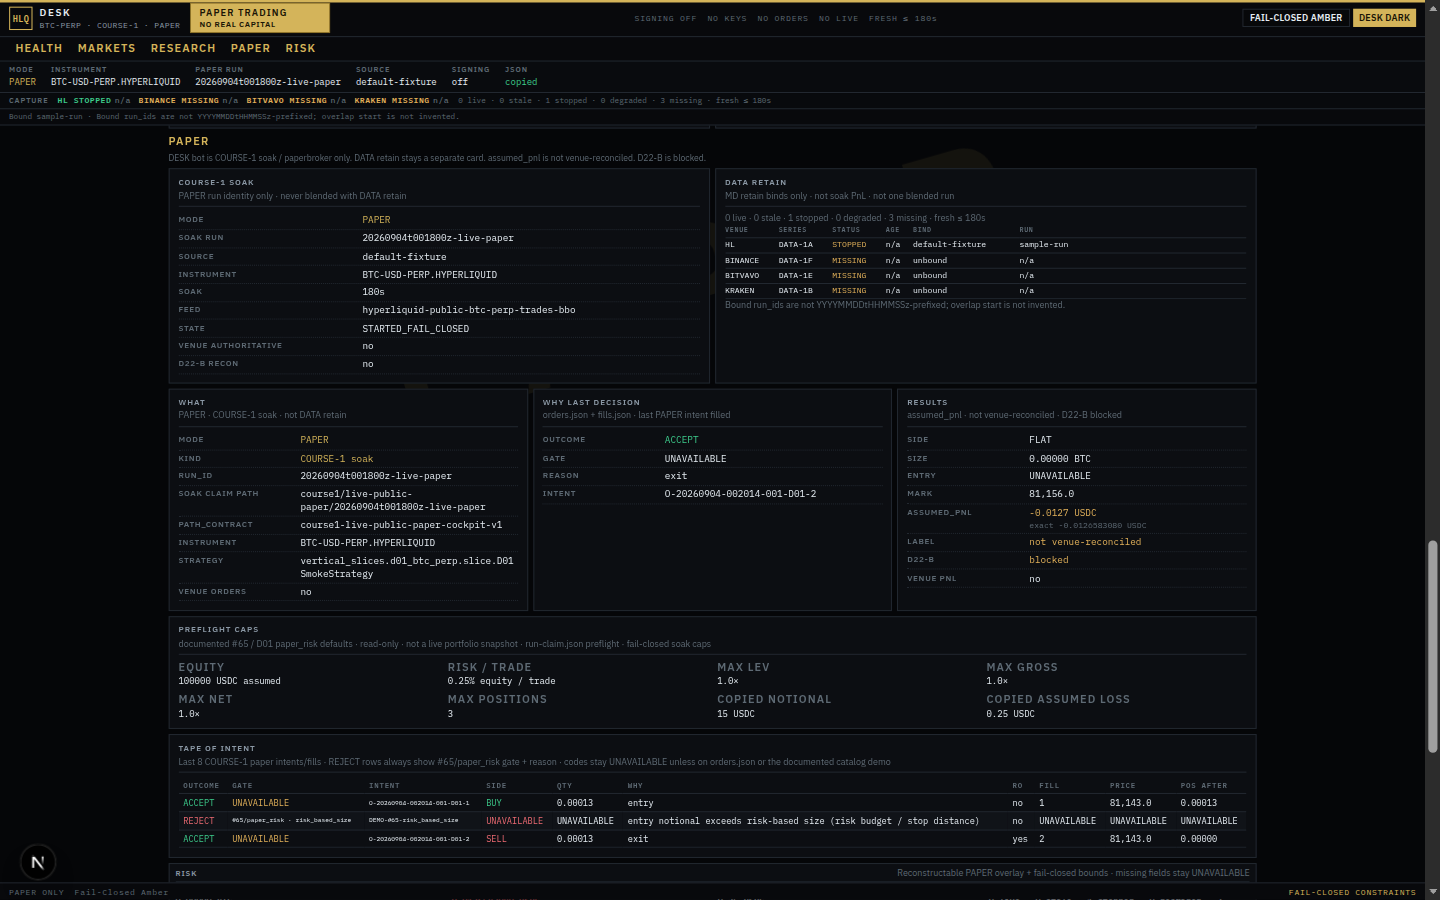
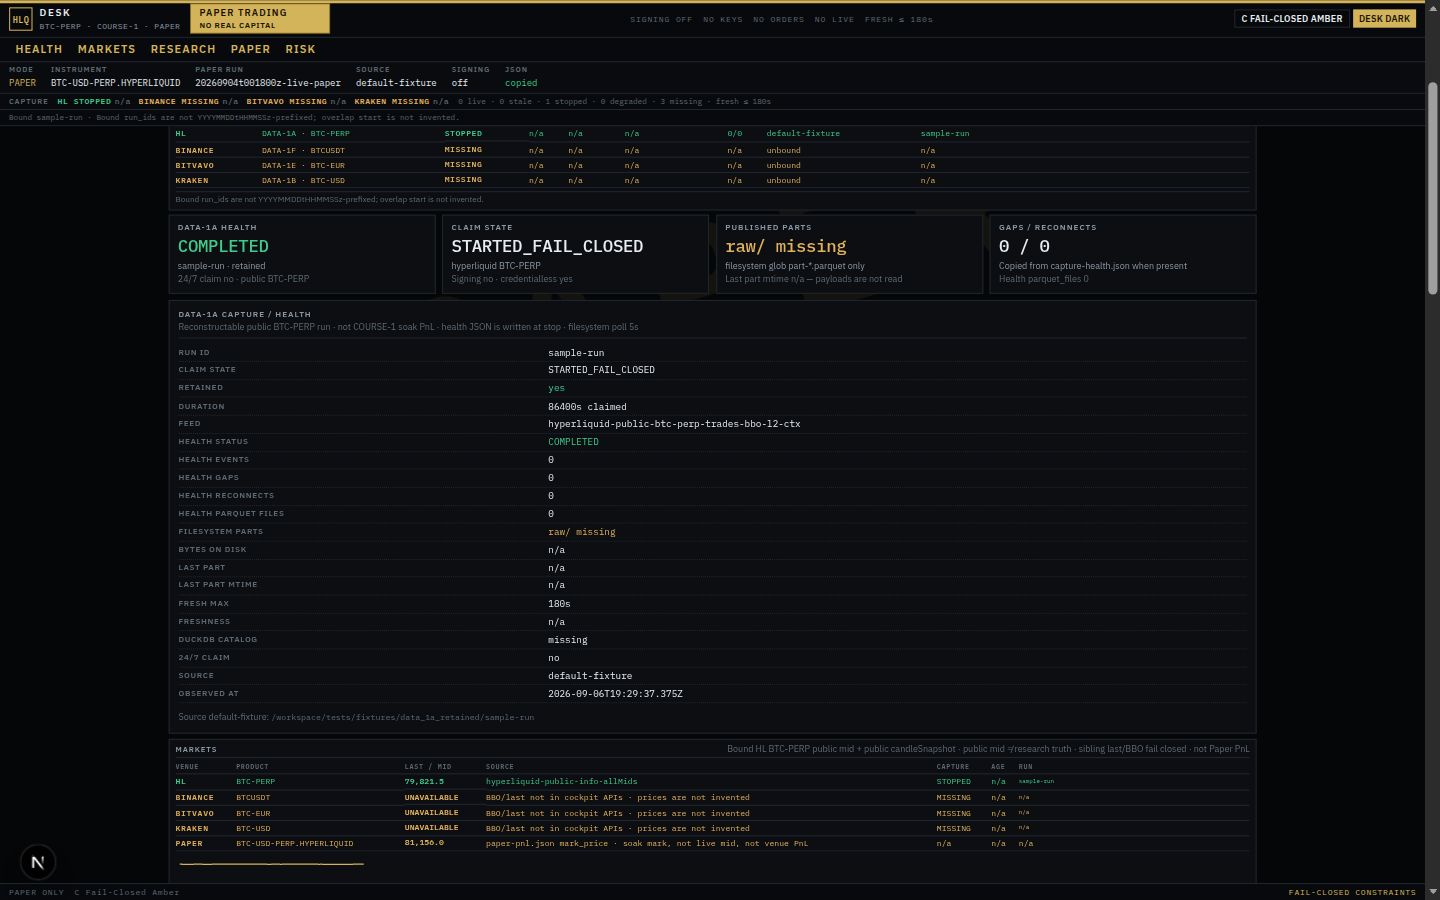
docs(cockpit): viewport crops for Design re-review of PR #66
Re-shot HEALTH, RESEARCH, MARKETS, PAPER, DESK, and iPhone as clean
viewport crops. Full-page stitch and B critique are demoted. Default
copy in chrome is C Fail-Closed Amber.

diff --git a/docs/design-previews/pr-66/README.md b/docs/design-previews/pr-66/README.md
@@ -5,38 +5,42 @@ They are not product claims, not LIVE evidence, and not profitability evidence.
 
 Canonical path for this PR: `docs/design-previews/pr-66/`
 
-Default chrome is **Fail-Closed Amber**. Optional operator toggle is **Desk Dark**.
-Critique variants are not in prod UI; older B shots below are historical only.
+**Review these viewport crops**, not the full-page stitch.
+
+Default chrome is **C Fail-Closed Amber**. Optional operator toggle is **Desk Dark**.
+Critique B is demoted and is not in prod UI.
 
 ## Visual variants
 
 | Id | Intent | In prod chrome? |
 |---|---|---|
-| Fail-Closed Amber | status-first shipping default | **yes (default)** |
+| **C Fail-Closed Amber** | status-first shipping default | **yes (default)** |
 | Desk Dark | optional density | yes (toggle) |
-| critique | Design docs only | no |
+| critique | Design docs only, demoted | no |
 
-## Files
+## Review shots (viewport)
 
-### Chrome + themes
+### HEALTH / chrome
 
-- `design_desktop_c_fail_closed_amber.png` — desktop Fail-Closed Amber (Health)
-- `design_desktop_c_full_page.png` — desktop Fail-Closed Amber full page
+- `design_desktop_c_fail_closed_amber.png` — desktop C Fail-Closed Amber
 - `design_desktop_a_desk_dark.png` — desktop Desk Dark
 - `desktop_terminal_a.png` — Desk Dark alias
-- `design_desktop_b_critique.png` — historical critique (not prod chrome)
-- `desktop_workstation_b.png` — historical critique alias
 - `design_iphone_c_chrome.png` — iPhone sticky PAPER + freshness + tucked footer
 
-### Six Design must-fix areas
+### RESEARCH / MARKETS / PAPER / DESK
 
-- `design_desktop_research_p0.png` — Research artifact/summary cards (no live mid)
+- `design_desktop_research_p0.png` — Research artifact/summary only
 - `design_desktop_markets.png` — MARKETS public mid ≠ research truth
-- `design_desktop_paper_zone.png` — soak vs retain identity cards
-- `desk_course1_what_why_results.png` — COURSE-1 What / Why / assumed_pnl 4dp
+- `design_desktop_paper_zone.png` — soak vs retain
+- `desk_course1_what_why_results.png` — What / Why / assumed_pnl 4dp
 - `desk_course1_caps_tape.png` — REJECT + `#65/paper_risk · risk_based_size`
-- `design_iphone_paper_zone.png` — iPhone PAPER cards + compact footer
+- `design_iphone_paper_zone.png` — iPhone PAPER + compact footer
 - `desk_iphone_course1_what.png` — iPhone DESK What
-- `desk_iphone_course1_tape.png` — iPhone tape including REJECT row
+- `desk_iphone_course1_tape.png` — iPhone tape including REJECT
+
+## Not review source
+
+- `design_desktop_c_full_page.png` — noisy stitch; do not treat as truth
+- `design_desktop_b_critique.png` / `desktop_workstation_b.png` — historical B, demoted
 
 Collectors were not started or stopped for these shots.
